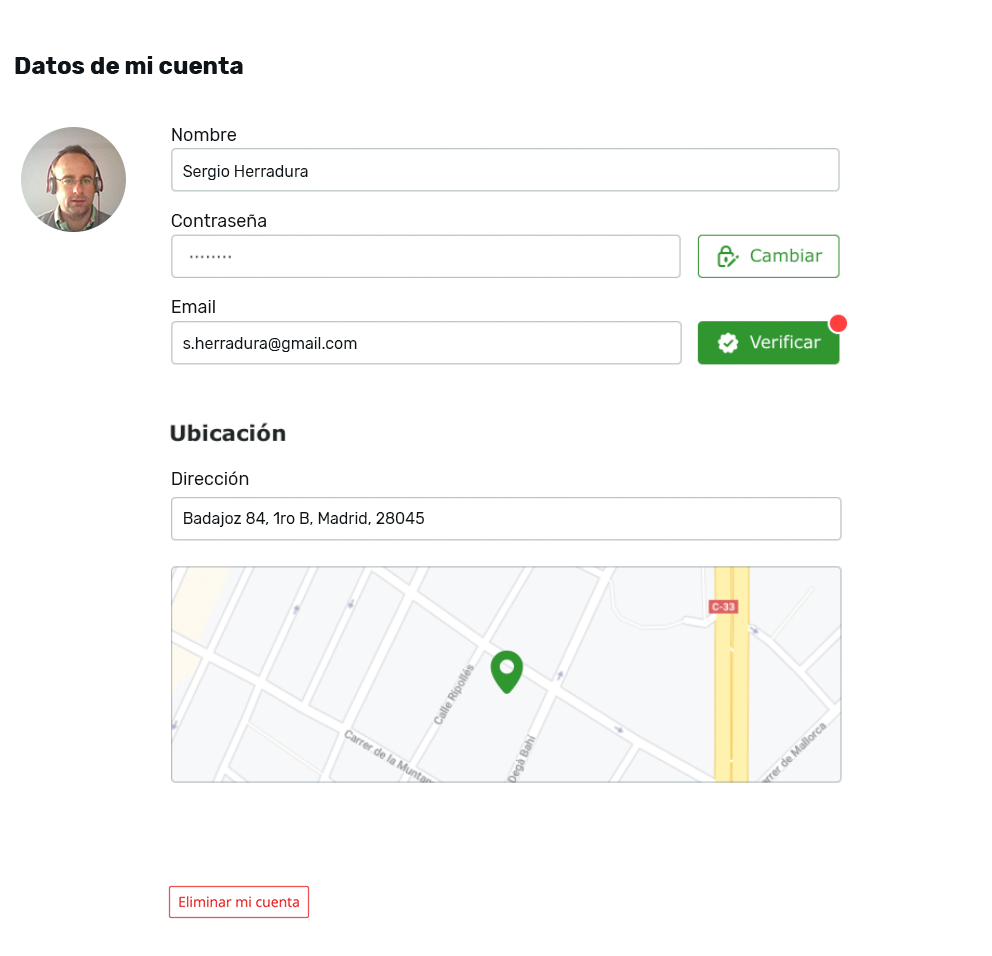
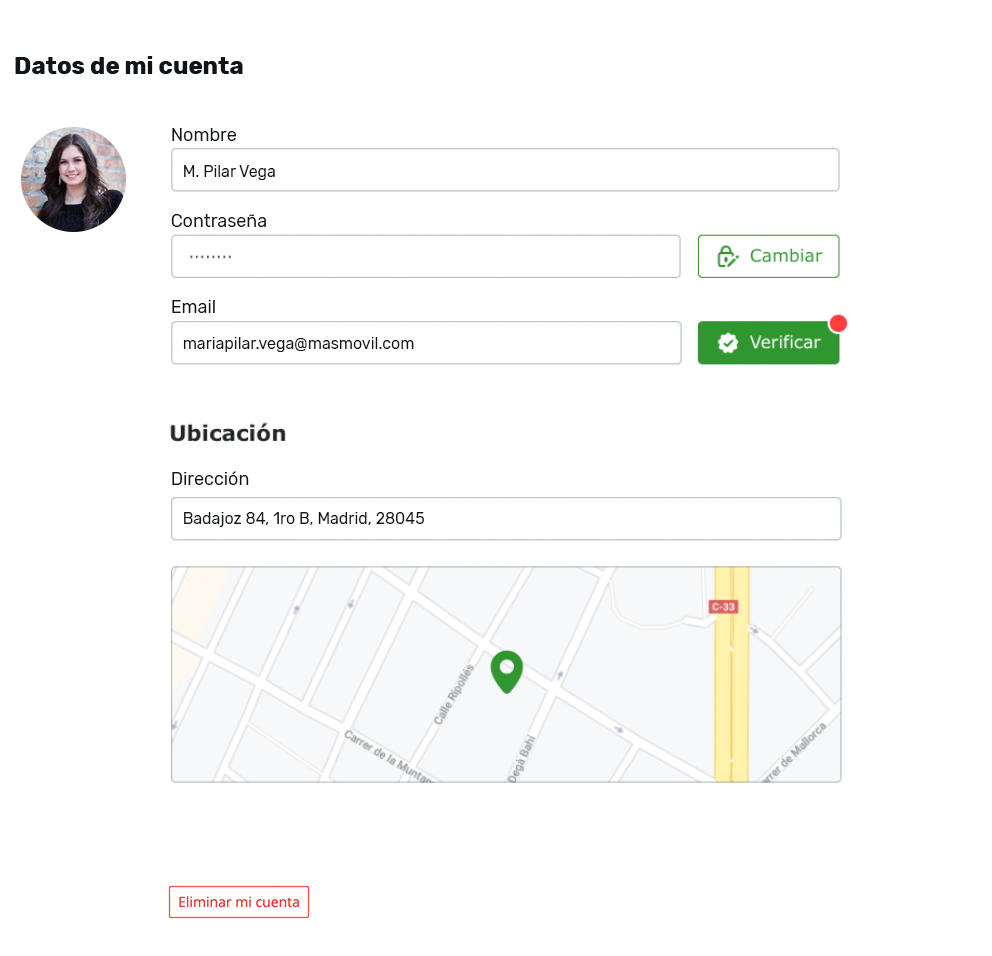
user pilar

Changed region(s): [[0.0, 0.1213, 0.125, 0.2427], [0.1875, 0.3337, 0.4062, 0.364], [0.1875, 0.1517, 0.3125, 0.182]]

diff --git a/components/navbar-round3.js b/components/navbar-round3.js
@@ -84,7 +84,7 @@ export default function NavBar() {
           <ul>
             <MenuItem
               avatar
-              label="s.herradura@gmail.com"
+              label="mariapilar.vega@masmovil.com"
               onClickEnabled
               theFunction={goToMyAccount}
               isSubMenu
